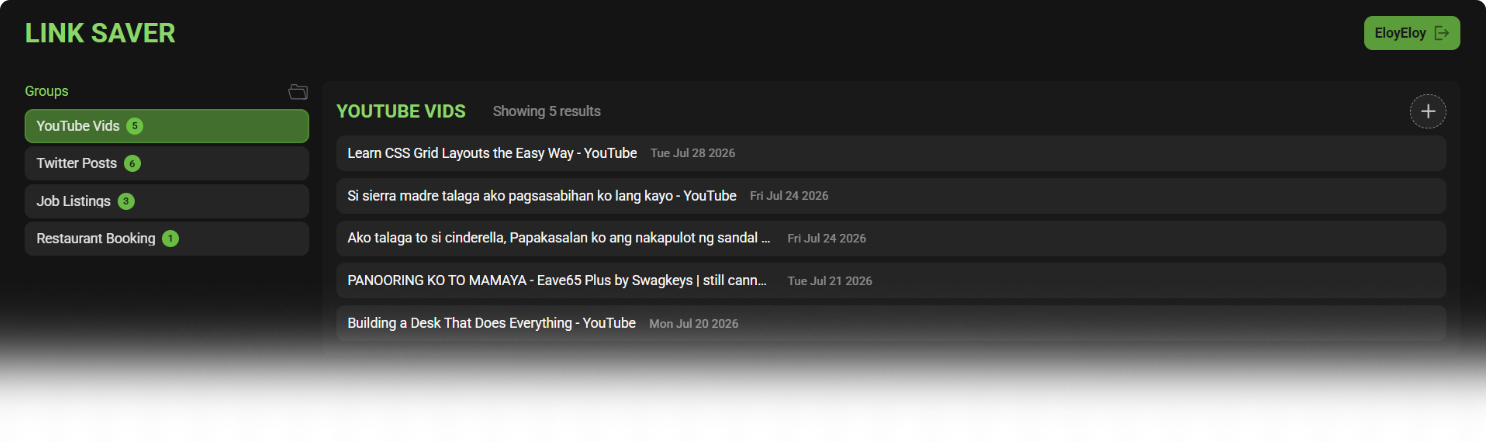
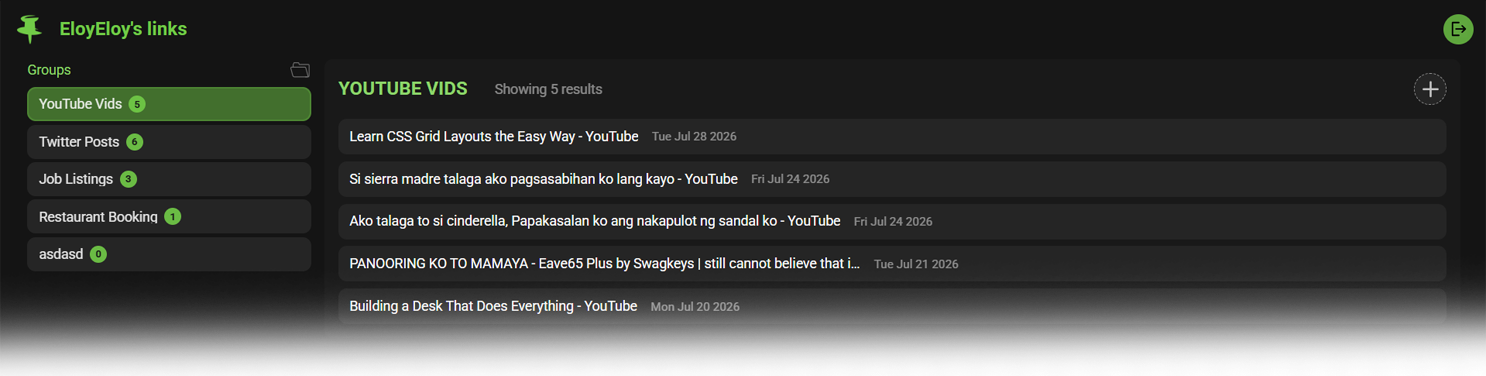
UPDATE: Landing page

diff --git a/frontend/src/pages/GuestHome.jsx b/frontend/src/pages/GuestHome.jsx
@@ -1,18 +1,35 @@
+import { useState } from 'react';
+
+
+// icons
+import Copy from '/src/assets/Icons/copy.svg?react';
+import Check from '/src/assets/Icons/check.svg?react'
+
 
 export const GuestHhome = ({
     setCreateAccountModalOpen
 }) => {
 
+    const [isCopied, setIsCopied] = useState(false);
+    const handleCopyLink = async (link) => {
+        await navigator.clipboard.writeText(link);
+        setIsCopied(true);
+
+        console.log('Copied link: ', link);
+        setTimeout(() => setIsCopied(false), 2000);
+    }
+    
+
     return (
         <>
-            <div className="flex flex-col w-full items-center justify-start gap-[2rem] pt-[4rem] bg-[url('/public/background_pattern.png')] bg-fixed bg-[length:800px] h-full">
+            <div className="flex flex-col w-full items-center justify-start gap-[2rem] pt-[4rem] pb-[2rem] px-[16rem] h-full">
                 <div className="flex flex-col items-center w-full justify-center">
-                    <span className="text-[#71cb47] text-8xl leading-none font-bold">Save Your Links</span>
+                    <span className="text-[#FAFAFA] text-8xl leading-none font-bold">Save Your Links,</span>
                     <span className="text-[#FAFAFA] text-8xl leading-none font-bold">Visit Them Later</span>
                 </div>
 
                 <p className="text-[22px] text-[#FAFAFA] text-center leading-none">
-                    Create a group, paste your links, set a custom title for each then visit them all later
+                    Paste your links, organize them into groups, customize every title, and access them whenever you need
                 </p>
 
                 <div className="flex items-center w-full justify-center gap-2">
@@ -25,8 +42,81 @@ export const GuestHhome = ({
                     </button>
                 </div>
 
-                <div className="rounded-[10px] bg-gradient-to-b from-[#FAFAFA]/25 to-transparent p-[2px] w-[75rem]">
+                <div className="rounded-[10px] bg-gradient-to-b from-[#FAFAFA]/25 to-transparent p-[2px] max-w-[75rem]">
                     <img src="/public/hero_image.png" alt="hero image" className="bg-transparent rounded-[10px]"/>
+                </div>
+            </div>
+
+
+            <div className="flex flex-col justify-center w-full h-full py-[5rem] px-[16rem] gap-[2rem] bg-[url('/public/background_pattern.png')] bg-fixed bg-[length:800px]">
+                <span className="text-left text-[#FAFAFA] text-[50px] font-bold">
+                    Link management made simple.
+                </span>
+
+                <div className="flex justify-center items-center w-full h-full">
+                    <div className="flex flex-col justify-between w-[600px] h-full pr-[1rem] gap-[1rem]">
+                        <div className="flex flex-col w-full gap-[1rem]">
+                            <span className="text-[#71cb47] text-[24px] font-bold">Organize your links by Group</span>
+                            <span className="text-[#FAFAFA] opacity-75">Categorize your links by groups. Keep related links together to make them easier to manager and revisit later.</span>
+                        </div>
+                        <div className="flex w-full rounded-[15px] overflow-hidden">
+                            <img src="/public/create_group.png" alt="create group modal image" />
+                        </div>
+                    </div>
+
+                    <div className="flex flex-col justify-between w-[600px] h-full pl-[1rem] gap-[1rem]">
+                        <div className="flex flex-col w-full gap-[1rem]">
+                            <span className="text-[#71cb47] text-[24px] font-bold">Customize a title for each Link</span>
+                            <span className="text-[#FAFAFA] opacity-75">
+                                Replace generic webpage titles with names you'll actually recognize. Make your bookmarks easier to find by using custom titles.
+                            </span>
+                        </div>
+
+                        <div className="flex w-full rounded-[15px] overflow-hidden">
+                            <img src="/public/add_link.png" alt="add link modal image"/>
+                        </div>
+                    </div>
+                </div>
+            </div>
+
+
+            <div className="flex flex-col w-full items-center justify-center bg-[#141414] h-[300px] px-[16rem]">
+                <span className="text-[#FAFAFA] text-[46px] font-bold">Get Started Today</span>
+
+                <div className="flex items-center w-full justify-center gap-2">
+                    <button onClick={()=>setCreateAccountModalOpen(true)} className="px-6 py-3 bg-[#71cb47]/90 hover:bg-[#71cb47] active:bg-[#71cb47]/75 rounded-[10px] cursor-pointer transition-all duration-100">
+                        <span className="text-[#141414] font-bold">Get Started</span>
+                    </button>
+                </div>
+            </div>
+
+            <div className="flex items-start justify-between w-full px-[16rem] border border-t-[#FAFAFA]/10 py-[1rem]">
+                <div className="flex items-center w-full gap-[1rem]">
+                    <img src="/src/assets/logo/link_saver_logo.png" alt="logo" className="size-5"/>
+                    <span className="text-[#FAFAFA] text-[14px] opacity-50 leading-tight">
+                        This is a personal project created to enrich my knowledge on building application with CRUD features.
+                    </span>
+                </div>
+
+                <div className="flex items-center gap-[0.5rem]">
+                    <span className="text-right text-[#71cb47] text-[12px] whitespace-nowrap bg-[#71cb47]/25 rounded-full p-0.5 px-2">Hire me</span>
+
+                    <div className="flex gap-[0.3rem]">
+                        <span className="text-right text-[#71cb47] text-[14px] whitespace-nowrap">
+                            angelocabangal01@gmail.com
+                        </span>
+                        
+                        {!isCopied ? (
+                            <button onClick={()=>handleCopyLink('angelocabangal01@gmail.com')} className="cursor-pointer opacity-75 hover:opacity-100 active:opacity-75 transition-all duration-100">
+                                <Copy className="size-5 opacity-50"/>
+                            </button>
+                        ):(
+                            <button className="cursor-pointer opacity-75 hover:opacity-100 active:opacity-75 transition-all duration-100">
+                                <Check className="size-4"/>
+                            </button>
+                        )}
+
+                    </div>
                 </div>
             </div>
         </>

diff --git a/frontend/src/components/Navigation.jsx b/frontend/src/components/Navigation.jsx
@@ -21,24 +21,35 @@ const Navigation = ({
   const [accountDropdown, setAccountDropdown] = useState(false);
 
   return (
-    <div className={`sticky top-0 flex items-center justify-between w-full min-h-[60px] box-border z-30 py-[1rem] px-[2rem] bg-[#141414]`}>
-        <Link to="/" className='flex items-center justify-center'>
+    <div className={`sticky top-0 flex items-center justify-between w-full min-h-[60px] box-border z-30 py-[1rem] px-[1rem]`}>
+        <Link to="/" className='flex items-center gap-[1rem]'>
             {/* LOGO HERE */}
-            <span className='text-[#8cd56a] text-[32px] font-bold whitespace-nowrap'>LINK SAVER</span>
+            {/* <span className='text-[#8cd56a] text-[32px] font-bold whitespace-nowrap'>LINK SAVER</span>
+             */}
+            <img src="/src/assets/logo/link_saver_logo.png" alt="logo" className='w-[38px] h-[38px]'/>
+            {user ? (
+              <span className='text-[#71cb47] text-[22px] font-bold'>
+                {user.name}'s links
+              </span>
+            ): (
+              <span className='text-[#71cb47] text-[22px] font-bold'>
+                Link Saver
+              </span>
+            )}
         </Link>
 
         {!user ? (
           <div className='flex flex-row items-center'>
             <div className='flex items-center overflow-hidden gap-2'>
-              <button onClick={() => setLoginModalOpen(true)} className={`cursor-pointer flex items-center font-bold h-full w-full bg-[#252525]/50 hover:bg-[#252525] active:bg-[#252525]/50 p-3 rounded-[10px] text-[#FAFAFA]`}>Login</button>
-              <button onClick={() => setCreateAccountModalOpen(true)} className='cursor-pointer flex items-center bg-[#71cb47] text-[#141414] font-bold h-full w-full p-3 rounded-[10px] text-[#141414] whitespace-nowrap hover:bg-[#71cb47]/75 active:bg-[#71cb47]'>Register</button>
+              <button onClick={() => setLoginModalOpen(true)} className={`cursor-pointer flex items-center font-bold h-full w-full bg-[#252525]/50 hover:bg-[#252525] active:bg-[#252525]/50 px-3 py-2 rounded-[10px] text-[#FAFAFA]`}>Login</button>
+              <button onClick={() => setCreateAccountModalOpen(true)} className='cursor-pointer flex items-center bg-[#71cb47] text-[#141414] font-bold h-full w-full px-3 py-2 rounded-[10px] text-[#141414] whitespace-nowrap hover:bg-[#71cb47]/75 active:bg-[#71cb47]'>Register</button>
             </div>
           </div>
         ) : (
-          <div className='flex items-center justify-between bg-[#71cb47]/75 rounded-[10px] transition-all duration-100 py-2'>
-              <span className='text-[#191919] font-bold px-2 pl-3'>{user.name}</span>
-              <button onClick={logOutUser} className='pr-3 rounded-full bg-transparent cursor-pointer opacity-50 hover:opacity-100 active:opacity-50 cursor-pointer transition-all duration-100 ' title="Log out" >
-                  <Logout className="w-[20px] h-[20px]" />
+          <div className='flex items-center justify-center'>
+              {/* <span className='text-[#191919] font-bold px-2 pl-3'>{user.name}</span> */}
+              <button onClick={logOutUser} className='p-2 rounded-full  cursor-pointer bg-[#71cb47]/80 hover:bg-[#71cb47] active:bg-[#71cb47]/80 cursor-pointer transition-all duration-100' title="Log out" >
+                  <Logout className="size-5" />
               </button>
           </div>
         )}

diff --git a/frontend/src/components/HomeComponent/LinkWrapper.jsx b/frontend/src/components/HomeComponent/LinkWrapper.jsx
@@ -36,7 +36,7 @@ export const LinkWrapper = ({
     console.log('Group: ', selectedGroup)
 
     return (
-        <div className={`flex flex-col items-center justify-start w-full h-auto gap-[0.5rem] ${cards.length == 0 ? '' : 'bg-[#191919]'}  p-[1rem] rounded-[10px]`}>
+        <div className={`flex flex-col items-center justify-start w-full h-auto gap-[1rem] ${cards.length == 0 ? '' : 'bg-[#191919]'}  p-[1rem] rounded-[10px]`}>
             {cards.length > 0 && (
                 <div className='flex items-center justify-between w-full'>
                     <div className='flex items-center gap-[2rem]'>
@@ -44,8 +44,8 @@ export const LinkWrapper = ({
                         <span className='text-[#FAFAFA] opacity-50 leading-none'>Showing {cards.length} results</span>
                     </div>
 
-                        <button onClick={() => setOpenAddLinkModal(true)}  title='Add Link' type='button' className='flex items-center justify-center gap-2 bg-[#252525] hover:bg-[#191919] active:bg-[#252525] h-[40px] px-2 border-1 border-dashed border-[#FAFAFA]/50 rounded-full cursor-pointer'>
-                            <Add className="w-[25px] h-[25px] opacity-75"/>
+                        <button onClick={() => setOpenAddLinkModal(true)}  title='Add Link' type='button' className='flex items-center justify-center gap-2 bg-[#252525] hover:bg-[#191919] active:bg-[#252525] h-[38px] w-[38px] p-1 border-1 border-dashed border-[#FAFAFA]/50 rounded-full cursor-pointer'>
+                            <Add className="size-9 opacity-75"/>
                         </button>
                 </div>
             )}

diff --git a/frontend/src/components/modal/GroupCreateModal.jsx b/frontend/src/components/modal/GroupCreateModal.jsx
@@ -41,11 +41,15 @@ export const GroupCreateModal = ({
     
     return (
         <div className={`modal-in flex flex-col items-start w-[500px] bg-[#191919] p-[2rem] pb-[1.5rem] rounded-[15px] border border-[#FAFAFA]/15 gap-[1rem] ${createGroupMutation.isPending && 'opacity-50'}`}>
-            <div className="flex items-center justify-between w-full">
-                <span className="text-[#FAFAFA] text-[18px] font-bold">Create Group</span>
-                <button onClick={() => setCloseModal(false)} className="flex items-center justify-center cursor-pointer rounded-full hover:bg-[#252525] active:bg-[#191919] p-1">
+            <div className="flex flex-col items-start w-full gap-3">
+                <span className="text-[#FAFAFA] text-[24px] font-bold">Create a new Group</span>
+                {/* <button onClick={() => setCloseModal(false)} className="flex items-center justify-center cursor-pointer rounded-full hover:bg-[#252525] active:bg-[#191919] p-1">
                     <Close className="w-[20px] h-[20px]" />
-                </button>
+                </button> */}
+
+                <span className='text-[#FAFAFA] opacity-50'>
+                    Name your group that best fit to the links you'll add later.
+                </span>
             </div>
 
             <div className='flex flex-col w-full items-center justify-center gap-[1rem]'>

diff --git a/frontend/src/components/modal/AddLinkModal.jsx b/frontend/src/components/modal/AddLinkModal.jsx
@@ -145,14 +145,14 @@ export const AddLinkModal = ({
         onAnimationEnd={()=>handleAnimationEnd()}>
 
             <div className="flex items-center justify-between w-full">
-                <span className="text-[#FAFAFA] text-[24px] font-bold">ADD LINK</span>
+                <span className="text-[#FAFAFA] text-[24px] font-bold">Save a link to <strong className='text-[#71cb47]'>{selectedGroup}</strong></span>
                 <button onClick={handleClose} className="flex items-center justify-center cursor-pointer rounded-full hover:bg-[#252525] active:bg-[#191919] p-1">
                     <Close className="w-[20px] h-[20px]" />
                 </button>
             </div>
 
             <div className='flex flex-col w-full gap-[1rem]'>
-                <span className='text-[#FAFAFA] text-[16x]'>You will be saving a new link to <strong className='text-[#8cd56a]'>{selectedGroup}</strong>.</span>
+                <span className='text-[#FAFAFA] text-[16x] opacity-50'>Paste your link below. Make sure to check the title and modify it to add a bit more context. That will help you remember what the link is about</span>
 
                 <div className='flex flex-col w-full gap-3'>
                     

diff --git a/frontend/src/components/modal/GroupEditModal.jsx b/frontend/src/components/modal/GroupEditModal.jsx
@@ -49,10 +49,10 @@ export const GroupEditModal = ({
 
 
     return (
-        <div tabIndex={-1} onKeyDown={handleKeyDown} className="modal-in flex flex-col items-start w-[600px] h-auto bg-[#191919] p-[2rem] pb-[2.5rem] rounded-[15px] border border-[#FAFAFA]/15 gap-[1.5rem]">
+        <div tabIndex={-1} onKeyDown={handleKeyDown} className="modal-in flex flex-col items-start w-[600px] h-auto bg-[#191919] p-[2rem] pb-[2.5rem] rounded-[15px] border border-[#FAFAFA]/15 gap-[1rem]">
 
             <div className="flex items-center justify-between w-full">
-                <span className="text-[24px] text-[#FAFAFA] font-bold">Do you want to rename '{groupName}' ?</span>
+                <span className="text-[28px] text-[#71cb47] font-bold">Rename group '{groupName}' ?</span>
 
                 <button onClick={()=>setSelectedGroupEditModal(null)} className="cursor-pointer rounded-full p-1 hover:bg-[#252525] active:bg-transparent">
                     <Close className="w-[20px] h-[20px]" />

diff --git a/frontend/src/components/HomeComponent/Cards/Card.jsx b/frontend/src/components/HomeComponent/Cards/Card.jsx
@@ -37,7 +37,7 @@ export const Card = ({
     return (
         <div key={card.date_created} className='group flex items-center justify-between w-full bg-[#252525] border border-[#252525]/50 rounded-[10px] min-h-[40px] overflow-hidden cursor-pointer transition-all duration-100'>
             <Link to={card.link} target='_blank' className='flex items-center gap-[1rem] bg-gradient-to-r hover:from-[#A8DF8E]/25 active:from-[#A8DF8E]/50 p-[0.5rem] px-[0.75rem] w-full cursor-pointer'>
-                <span className='text-[#FAFAFA] max-w-[500px] truncate'>{card.title}</span>
+                <span className='text-[#FAFAFA] max-w-[600px] truncate'>{card.title}</span>
                 <span className='text-[14px] text-[#FAFAFA] opacity-50 whitespace-nowrap'>{new Date(card.date_created).toDateString()}</span>
             </Link>
 

diff --git a/frontend/src/components/modal/CreateAccountModal.jsx b/frontend/src/components/modal/CreateAccountModal.jsx
@@ -99,7 +99,8 @@ export const CreateAccountModal = ({
             <button onClick={() => setCloseModal(false)} className="absolute top-3 right-3 cursor-pointer rounded-full hover:bg-[#252525] active:bg-[#191919] p-1">
                 <Close className="w-[20px] h-[20px]" />
             </button>
-            <div className="flex items-center justify-between w-full">
+            <div className="flex flex-col items-center w-full gap-[1rem]">
+                <img src="/src/assets/logo/link_saver_logo.png" alt="logo" className='w-[40px] h-[40px]'/>
                 <span className="text-[22px] text-[#8cd56a] text-center font-bold w-full">CREATE YOUR ACCOUNT</span>
             </div>
 
